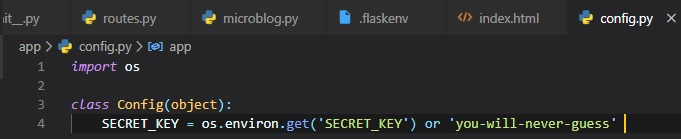
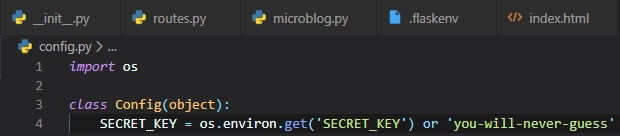
changed config

diff --git a/write-up.html b/write-up.html
@@ -344,7 +344,8 @@
                         that'll get passed to the Flask web framework to personalize your website. 
                     </p>
                     <p>There's several formats for the application to specify configuration options. The format we're going to be using 
-                        is to store configuration variables in a class. This file named "config.py" will be made inside of the "app" folder. 
+                        is to store configuration variables in a class. This file named "config.py" will be made directly inside the main 
+                        "microblog" folder, on the same level as "microblog.py"
                         <br><br><img src="./img/config py.jpg">
                     </p>
                     <p>If we eventually get to need more than one configuration set, then there is an option to make subclasses of this 
@@ -353,7 +354,19 @@
                     <p>The SECRET_KEY configuration variable is used as a value for a cryptographic key. Flask uses this to prevent 
                         a Cross-Site Request Forgery attack or CSRF. The value of this secret key is set as an expression with two 
                         terms, joined by the or operator. The first term looks for the value of an environment variable, also called
-                        SECRET_KEY. 
+                        SECRET_KEY. The second term, is just a hardcoded string. This is a pttern that you'll see repeated often for 
+                        config vaiables. 
+                    </p>
+                    <p>The idea's that a value sourced from an environment variable is preferred, but if the environment doesn't 
+                        define the variable, then the hardcoded string is used instead. When you're developing this web application, 
+                        the security requirements are low, so you can just ignore this and let the hardcoded string be used. However, 
+                        when it's deployed onto a production server, you should set a unique and difficult to guess value as the 
+                        environment variable. 
+                    </p>
+                    <p>Now that the config file's setup, we need to let Flask know about it. So, we need to go back to the Flask application 
+                        instance in the __init__.py file. To do this, we need to call the method known as "from_object" and have "Config" 
+                        as a parameter. 
+                        <br><br><img src=""
 
                 
                 </section>
